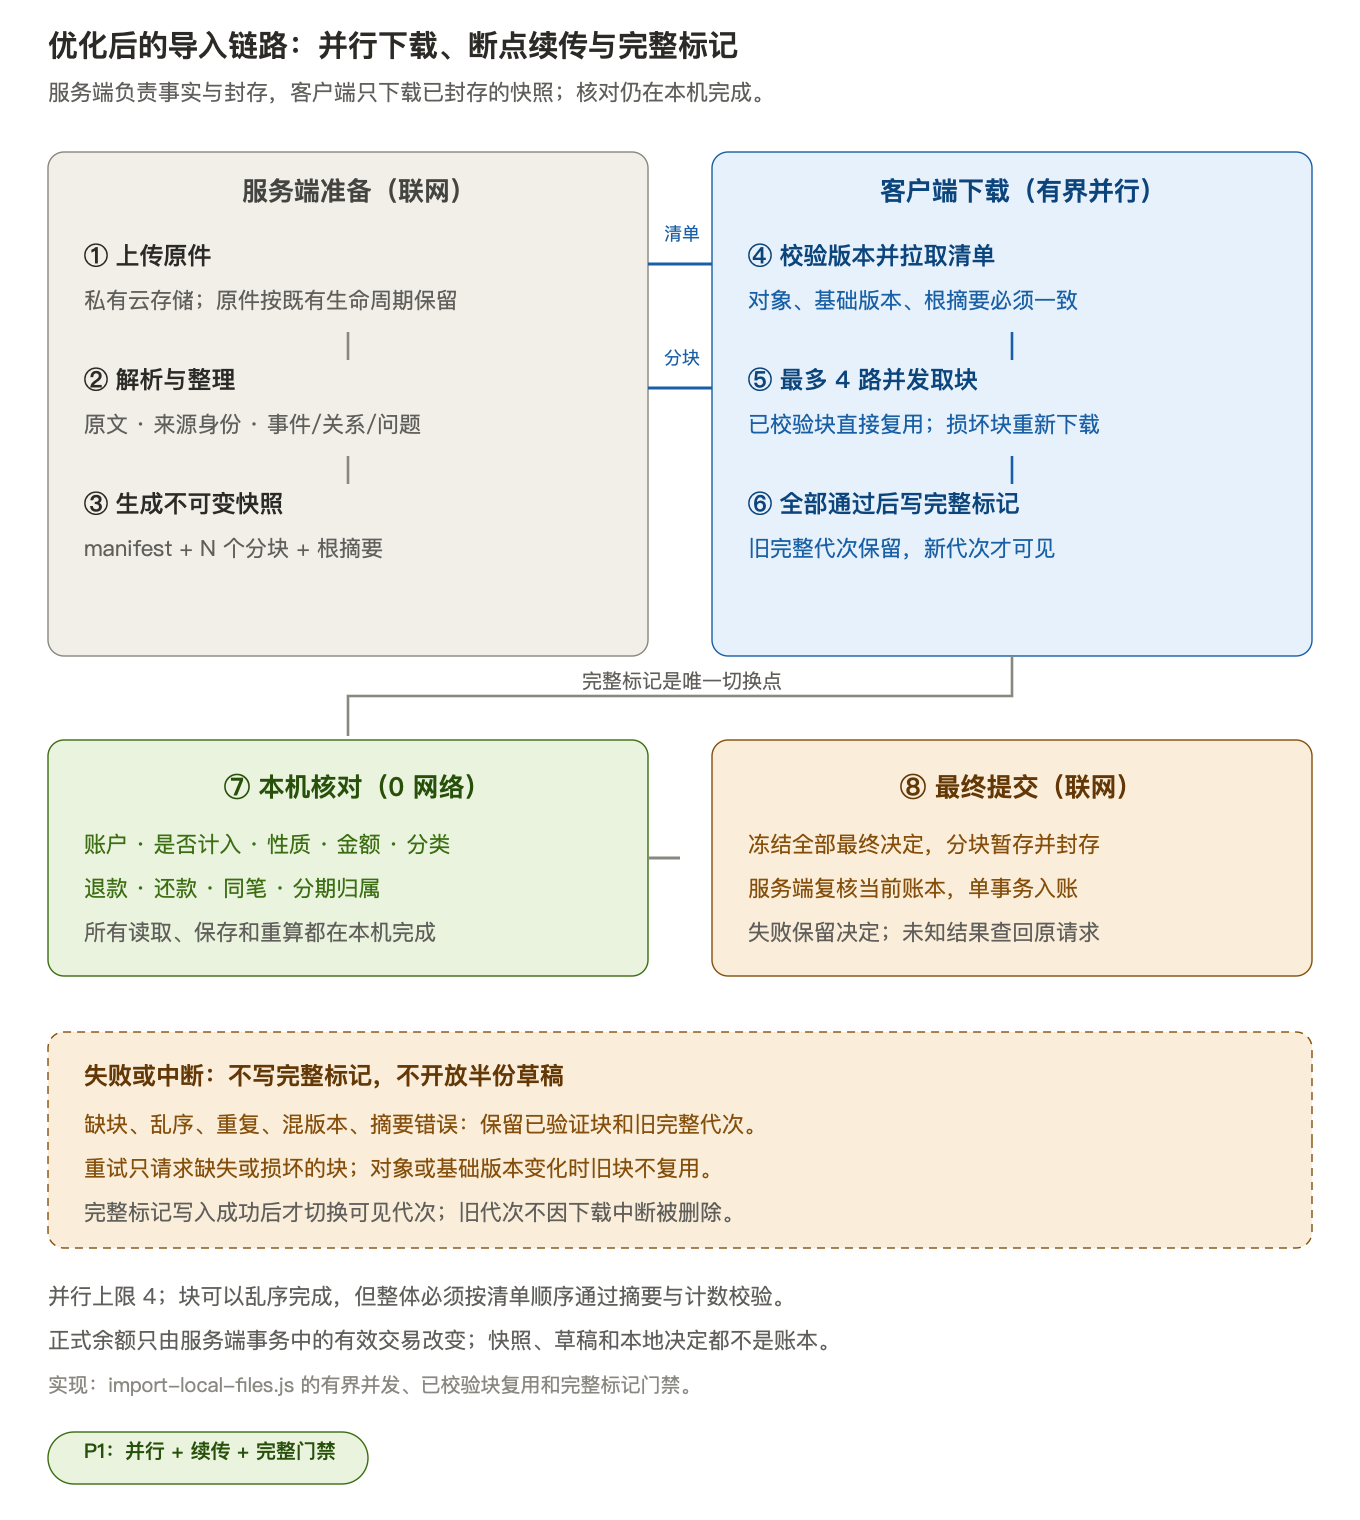
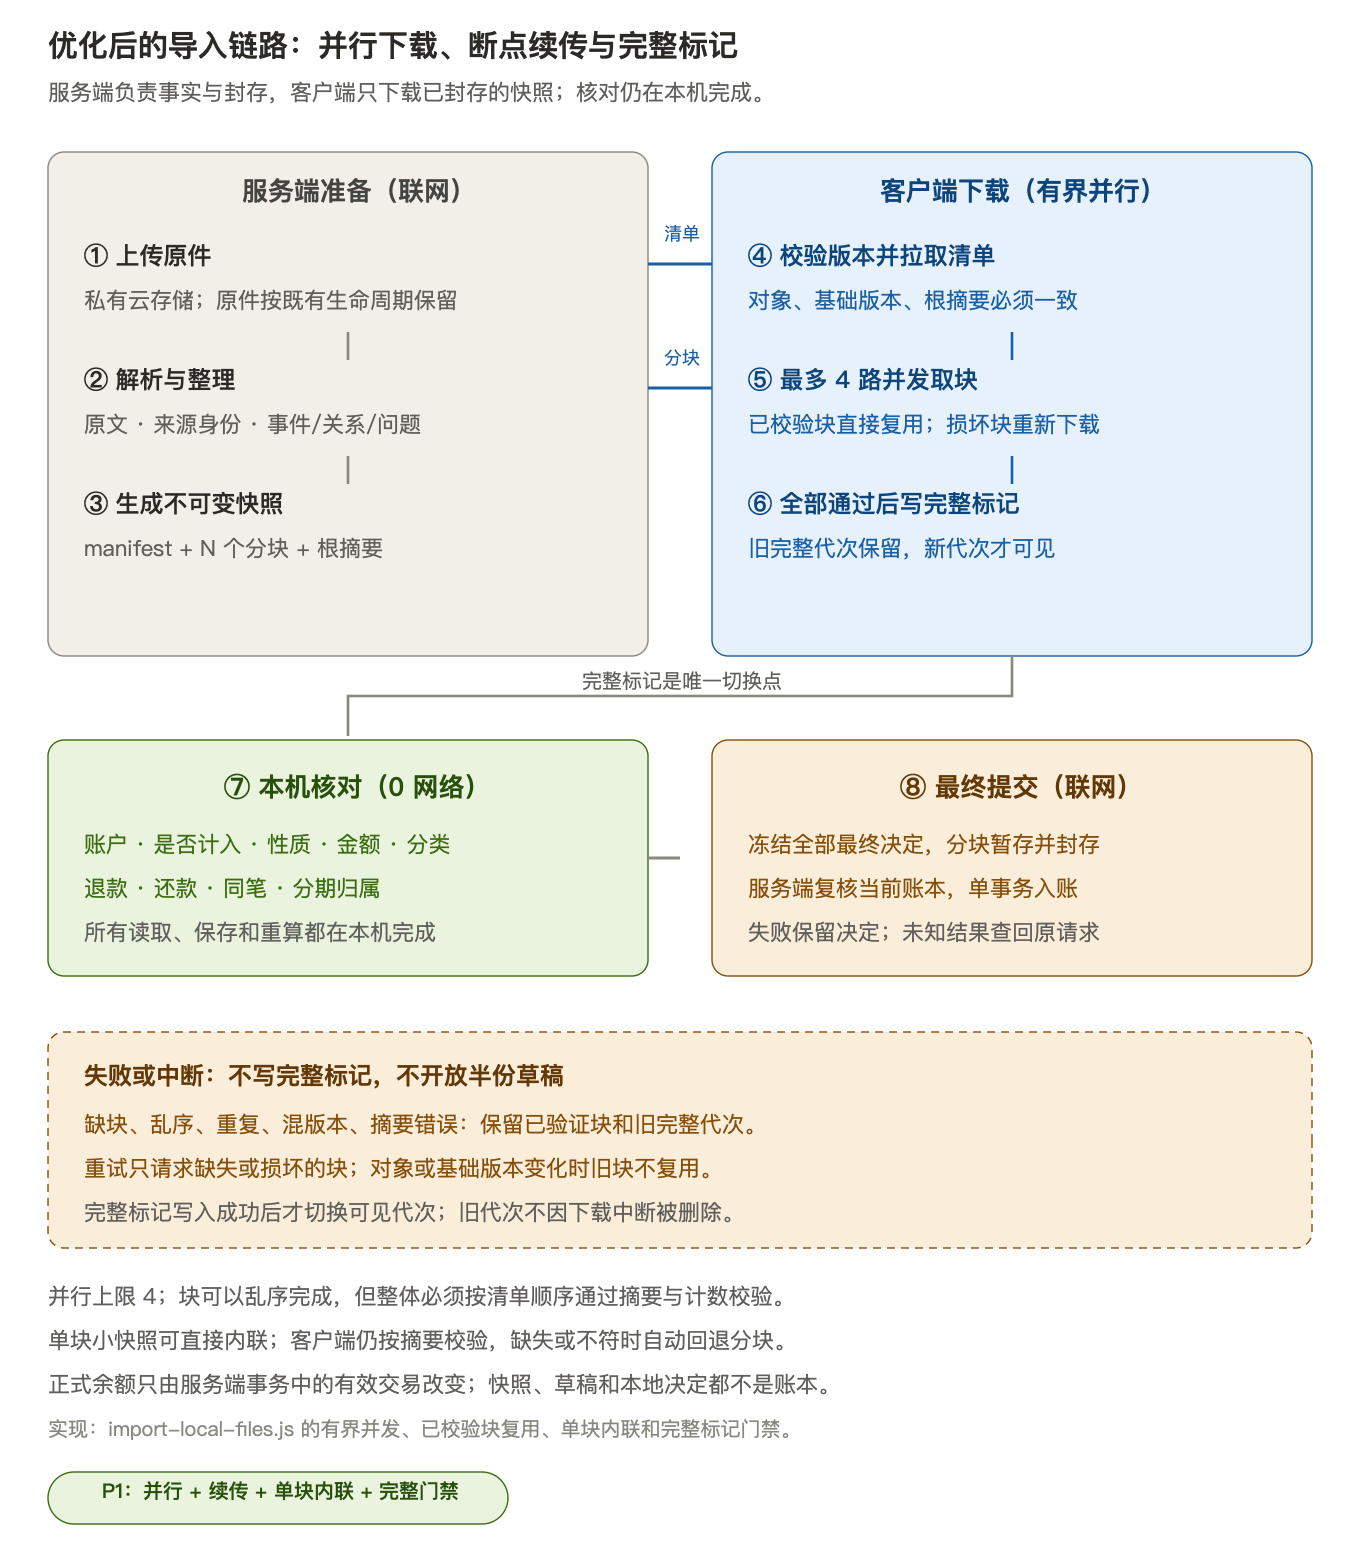
feat: inline single-chunk review snapshots

diff --git a/cloudfunctions/catledger-import/src/local-review-objects.js b/cloudfunctions/catledger-import/src/local-review-objects.js
@@ -8,6 +8,8 @@ const { split, rootDigest, validateManifest, validateState, LIMITS } = require('
 const { PLAN_VERSION } = require('./domain-versions')
 const { insertMany } = require('./sql-batch')
 
+const INLINE_SNAPSHOT_WIRE_BYTES = 200 * 1024
+
 function header(row) {
   return { objectId: row.objectId, updateId: row.updateId, snapshotId: row.snapshotId || null, kind: row.kind,
     baseVersion: Number(row.baseVersion), protocolVersion: Number(row.protocolVersion), ruleVersion: row.ruleVersion,
@@ -50,6 +52,14 @@ async function loadObject(connection, uid, id, kind) {
   parts.length=0
   return { header: meta, value }
 }
+function inlineSnapshot(packed, objectId, baseVersion) {
+  if (!packed || packed.chunkCount !== 1 || !packed.parts || packed.parts.length !== 1) return null
+  const part = packed.parts[0]
+  if (!part || typeof part.content !== 'string' || part.bytes > INLINE_SNAPSHOT_WIRE_BYTES) return null
+  if (Buffer.byteLength(JSON.stringify(part.content)) > INLINE_SNAPSHOT_WIRE_BYTES) return null
+  return { objectId, baseVersion, index: part.index,
+    bytes: part.bytes, digest: part.digest, content: part.content }
+}
 function createLocalReviewObjects({ getPool }) {
   const read = (context, operation) => executeUserRead({ getPool, ...context, consistentSnapshot: true, operation })
   const write = (context, action, operation) => executeIdempotentMutation({ getPool, ...context, action, operation })
@@ -85,7 +95,8 @@ function createLocalReviewObjects({ getPool }) {
       await connection.execute("UPDATE catledger_finance_updates SET review_mode='local_v3',version=version+1 WHERE uid=? AND update_id=?", [uid, updateId])
       const snapshot = await saveObject(connection, uid, { objectId, updateId, kind: 'snapshot', baseVersion: version + 1, ruleVersion: PLAN_VERSION,
         metadata: { counts, capabilities: ['complete-facts','local-review','atomic-post'] } }, packed)
-      return { update: publicUpdate(await selectUpdate(connection, uid, updateId)), snapshot }
+      const inline = inlineSnapshot(packed, objectId, version + 1)
+      return { update: publicUpdate(await selectUpdate(connection, uid, updateId)), snapshot, ...(inline ? { inline } : {}) }
     })
   }
   async function manifest(context) {
@@ -164,4 +175,4 @@ function createLocalReviewObjects({ getPool }) {
   }
   return { prepare, manifest, chunk, stage, seal }
 }
-module.exports = { createLocalReviewObjects, object, saveObject, loadObject }
+module.exports = { createLocalReviewObjects, object, saveObject, loadObject, inlineSnapshot }

diff --git a/miniprogram/packages/finance/services/import-local-files.js b/miniprogram/packages/finance/services/import-local-files.js
@@ -85,7 +85,7 @@ function create({ fs, root, scope, updateId, alive = () => true, chunkConcurrenc
     if (damaged) throw failure('DRAFT_CORRUPT', '完整草稿文件校验失败，已保留原文件；联网重新准备后继续')
     return null
   }
-  async function download(header, call, onProgress = () => {}) {
+  async function download(header, call, onProgress = () => {}, inline = null) {
     const ticket = epoch, descriptors = []; let offset = 0
     guard(ticket); io(() => { mkdir(directory); mkdir(directory + '/' + header.objectId) })
     do {
@@ -98,6 +98,22 @@ function create({ fs, root, scope, updateId, alive = () => true, chunkConcurrenc
     protocol.validateManifest(header, descriptors)
     const folder = directory + '/' + header.objectId
     const done = new Set()
+    if (inline && header.kind === 'snapshot' && descriptors.length === 1) {
+      const descriptor = descriptors[0], content = inline.content
+      try {
+        if (typeof content !== 'string' || inline.objectId !== header.objectId ||
+            Number(inline.baseVersion) !== Number(header.baseVersion) || inline.index !== descriptor.index ||
+            Number(inline.bytes) !== descriptor.bytes || inline.digest !== descriptor.digest) {
+          throw failure('SNAPSHOT_INCOMPLETE', '内联快照描述不一致')
+        }
+        protocol.validatePart(header, descriptor, { ...descriptor, objectId: header.objectId,
+          baseVersion: header.baseVersion, content })
+        io(() => verified(folder + '/part-' + descriptor.index + '.json', content))
+      } catch (error) {
+        if (error.code === 'DRAFT_STORAGE_FAILED' || error.code === 'SESSION_CHANGED') throw error
+        // An invalid inline payload is ignored; the normal chunk path below remains authoritative.
+      }
+    }
     for (const descriptor of descriptors) {
       const file = folder + '/part-' + descriptor.index + '.json'
       if (!exists(file)) continue

diff --git a/miniprogram/packages/finance/services/import-local-manager.js b/miniprogram/packages/finance/services/import-local-manager.js
@@ -101,7 +101,7 @@ async function prepare(view,onProgress,migration){
   let request=wx.getStorageSync(key)
   if(!request){request={requestId:api.createRequestId(),updateId:view.update.updateId,version:view.update.version};persist(key,request)}
   const prepared=await deps.callNetwork('financeUpdates.prepareSnapshot',request)
-  const facts=await deps.files.download(prepared.snapshot,deps.callNetwork,onProgress);deps.guard()
+  const facts=await deps.files.download(prepared.snapshot,deps.callNetwork,onProgress,prepared.inline);deps.guard()
   const session=sessionFactory.create({...deps,restored:{facts,header:prepared.snapshot,records:[]}})
   if(legacy.ui){const drafts=legacy.ui.drafts||{};for(const draft of Object.values(drafts))if(draft.mode==='ignore_future'){draft.mode='ignore';draft.localConfirmed=false;draft.dirty=true}session.saveDrafts(drafts,2);for(const [id,draft]of Object.entries(legacy.ui.pairingDrafts||{}))session.savePairingDraft(id,{...draft,needsRecheck:true})}
   router.bind(session);wx.removeStorageSync(key)

diff --git a/test/import-local-objects.test.js b/test/import-local-objects.test.js
@@ -1,0 +1,13 @@
+const test = require('node:test')
+const assert = require('node:assert/strict')
+const { inlineSnapshot } = require('../cloudfunctions/catledger-import/src/local-review-objects')
+
+test('单块内联只返回预算内的完整分块，超出预算或多块回退下载', () => {
+  const part = { index: 0, bytes: 1024, digest: 'a'.repeat(64), content: 'x'.repeat(1024) }
+  const inline = inlineSnapshot({ chunkCount: 1, parts: [part] }, 'object-id', 3)
+  assert.deepEqual(inline, { objectId: 'object-id', baseVersion: 3, index: 0, bytes: 1024,
+    digest: part.digest, content: part.content })
+  assert.equal(inlineSnapshot({ chunkCount: 2, parts: [part, { ...part, index: 1 }] }, 'object-id', 3), null)
+  assert.equal(inlineSnapshot({ chunkCount: 1, parts: [{ ...part, bytes: 200 * 1024 + 1 }] }, 'object-id', 3), null)
+  assert.equal(inlineSnapshot({ chunkCount: 1, parts: [{ ...part, content: 'x'.repeat(200 * 1024) }] }, 'object-id', 3), null)
+})

diff --git a/docs/招财猫记账本实施规划.md b/docs/招财猫记账本实施规划.md
@@ -6,7 +6,7 @@
 
 | 任务 | 状态 | 已知事实 | 剩余与边界 |
 | --- | --- | --- | --- |
-| IMPORT-OPT-20261019 导入链路体验与成本优化 | 进行中 | 基于 main `c5e7d201` 开分支 `codex/import-opt-20261019`；P1 已实现分块下载默认最多 4 路并发、已校验块断点续传、进度百分比，并保留缺块/乱序/混版本/摘要错误不开放半份草稿的完整门禁。证据：[并行与续传测试](../test/import-local-files.test.js)、[主逻辑 3.8](招财猫记账本入账逻辑说明.md#import-transfer)、[优化计划](导入链路体验与成本优化计划.md)；相关 25 项测试通过，完整根套件 1,158 项通过、80 项按环境跳过 | P0 阶段耗时/调用量观测、单块小快照内联、真机/弱网基准和云端容量未完成；P2 原件 TTL、P3 快速入账、P5 快照传输未开始。本轮未迁移、未部署、未上传小程序；分支成果待验收 |
+| IMPORT-OPT-20261019 导入链路体验与成本优化 | 进行中 | 基于 main `c5e7d201` 开分支 `codex/import-opt-20261019`；P1 已实现分块下载默认最多 4 路并发、已校验块断点续传、单块小快照内联、进度百分比，并保留缺块/乱序/混版本/摘要错误不开放半份草稿的完整门禁。证据：[并行、续传与内联测试](../test/import-local-files.test.js)、[内联预算测试](../test/import-local-objects.test.js)、[主逻辑 3.8](招财猫记账本入账逻辑说明.md#import-transfer)、[优化计划](导入链路体验与成本优化计划.md)；相关 27 项测试通过，完整根套件 1,158 项通过、80 项按环境跳过 | P0 阶段耗时/调用量观测、真机/弱网基准和云端容量未完成；P2 原件 TTL、P3 快速入账、P5 快照传输未开始。本轮未迁移、未部署、未上传小程序；分支成果待验收 |
 | IMPORT-20261017 完整草稿下发与本地核对 | 待验收 | 完整快照、本地决定与文件恢复、原请求保护及单事务入账已集成；追加成功事务清理和新请求回归，完整数据库2,136项、3,000行实测与授权临时预览通过，finance编译后1.17MiB。追加授权后0034、最小权限及双函数已部署，实际工程原三来源批次已恢复为本地核对；本轮全部提交已按用户授权纳入main，证据见本节 | 实际目录已切回main；原实现分支、未提交的文档改动与`backup-docs/`保留。真机、弱网、云端容量及真实入账待验收，精确提交CI以提交检查为准 |
 | INSTALLMENT-20261016 分期卡片按计划分组与利息归属 | 待验收 | 能确定归属的本息在已核对按计划合卡；归属不明时整组本息进待核对，本金卡为入口，未归属利息挂在候选计划卡内。归属与分组由服务端确定。已修复数据库 JSON 类型误判、历史事项键阻止恢复、事项修复未更新批次版本，证据见本节 | 本次专项与隔离 MySQL 验证通过；性质解析、各页签卡头与交易行已收敛到共用入口；普通与分期已核对卡按同一列表渲染，计划名保留在交易标题。用户追加授权后，catledger-import 已于2026-10-16部署并完成代码及配置回读核验，相关实现已随`d1b40e96`提交并推送main；真实批次由用户自行操作验收，本轮无真实批次写入测试 |
 | MINI-20261012 财务分包与界面收敛 | 待验收 | 财务相关10页迁入`packages/finance`，共享贷款展示模型留在主包；语义色与间距变量、净资产卡样式一并纳入main。合并前修正遗漏的贷款选择跳转，并同步脚本、测试与现行文档入口；证据见本节 | 本地回归与实际工程预览通过；完整数据库CI按最终提交核验。手机、弱网与真实保存仍待验收；本轮无后端运行代码、迁移或部署变化 |

diff --git a/docs/导入链路体验与成本优化计划.md b/docs/导入链路体验与成本优化计划.md
@@ -189,6 +189,8 @@ Storage-days ≈ 未入账原件数 × 文件大小 × 保留天数
 - 超过 256KiB 响应预算、块数大于 1 或旧客户端时，仍走 manifest + chunk。
 - 内联失败必须可回退到分块，不能出现“服务端说内联、客户端无法验证”的半状态。
 
+实现状态：已完成。单块内容在 200KiB 响应预算内才内联；客户端校验描述和摘要，不符或缺失时回退 manifest + chunk。
+
 ### 5.4 OPT-08 进度与文案
 
 - 首次等待显示阶段（上传/解析/整理/准备核对资料/下载核对资料），不只显示“3 / 38”。
@@ -200,7 +202,7 @@ Storage-days ≈ 未入账原件数 × 文件大小 × 保留天数
 
 - 客户端：[import-local-files.js](../miniprogram/packages/finance/services/import-local-files.js)、[import-local-manager.js](../miniprogram/packages/finance/services/import-local-manager.js)、[runtime.js](../miniprogram/packages/finance/pages/import-workbench/runtime.js)。
 - 服务端：[local-review-objects.js](../cloudfunctions/catledger-import/src/local-review-objects.js)、[local-review-protocol.js](../cloudfunctions/catledger-import/src/local-review-protocol.js)。
-- 测试：[import-local-files.test.js](../test/import-local-files.test.js)、[import-local-page.test.js](../test/import-local-page.test.js)、[benchmark-local-review.js](../scripts/benchmark-local-review.js)。
+- 测试：[import-local-files.test.js](../test/import-local-files.test.js)、[import-local-objects.test.js](../test/import-local-objects.test.js)、[import-local-page.test.js](../test/import-local-page.test.js)、[benchmark-local-review.js](../scripts/benchmark-local-review.js)。
 
 ### 5.6 验收
 
